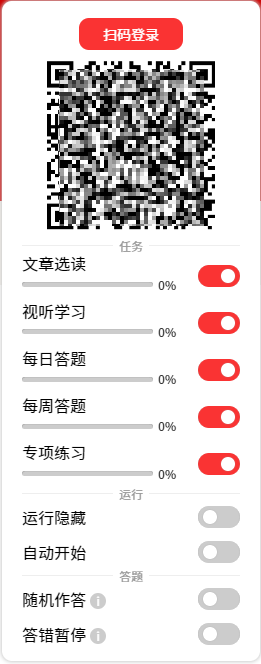
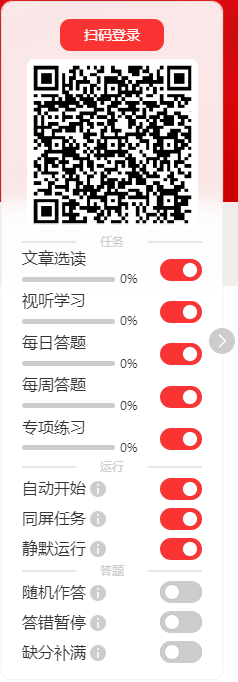
chore: update README.md

diff --git a/README.md b/README.md
@@ -1,8 +1,10 @@
 # tech-study-js
 
-### 原仓库：
+### 原仓库
 
 > https://github.com/TechXueXi/techxuexi-js
+
+基于原作者的原仓库，自行改进和完善
 
 ### 描述 Description
 
@@ -14,9 +16,9 @@
 
 1. 装个浏览器插件 tampermonkey （下载：https://github.com/TechXueXi/Tampermonkey ）
 
-2. 点击插件里添加按钮，去掉编辑框里原来的代码，复制 `tech-study.js` 脚本复制粘贴进编辑框保存。
+2. 点击插件里添加按钮，去掉编辑框里原来的代码，复制 [`tech-study.js`](https://raw.githubusercontent.com/Xu22Web/tech-study-js/master/tech-study.js) 脚本，粘贴进编辑框保存。
 
-3. 开启这个脚本，然后进入网页强国 `www.xuexi.cn` ，登录网页。
+3. 开启这个脚本，然后进入网页强国 https://www.xuexi.cn，登录网页。
 
 ### 优化 Promote
 
@@ -24,21 +26,33 @@
 
 2. 新增用户信息显示，包括昵称、头像、总分以及当天分数
 
-3. 新增任务进度显示，优化显示逻辑
+3. 新增任务进度以及任务分数详情显示，任务情况清晰明了
 
-4. 修复部分问题，优化答题逻辑
+4. 优化答题逻辑，新增滑动验证，远离验证烦恼
+
+5. 新增同屏任务以及静默运行，仅需一个页面即可静默运行任务
+
+6. 兼容桌面端以及移动端，手机电脑均可运行（设备均需支持油猴脚本，此外，移动端需要开启同屏任务）
 
 ### 使用流程 Process
 
-1. 登录
+1. 用户`登录`
 
-![登录](./login.png)
+<img src="./login.png" style="width:200px;" alt="登录">
 
-2. 点击 `开始学习`，等待完成学习
+1. 点击 `开始学习`，等待完成任务运行
 
-3. 完成学习
+   - `桌面端`运行
 
-![完成学习](./done.png)
+     <img src="./pc.png" style="width:1000px;" alt="PC 端运行">
+
+   - `移动端`运行
+
+      <img src="./mobile.png" style="width:320px;" alt="移动端运行">
+
+2. `完成学习`任务
+
+<img src="./done.png" style="width:300px;" alt="完成学习">
 
 ### 更新与维护 Update and Maintenance
 
